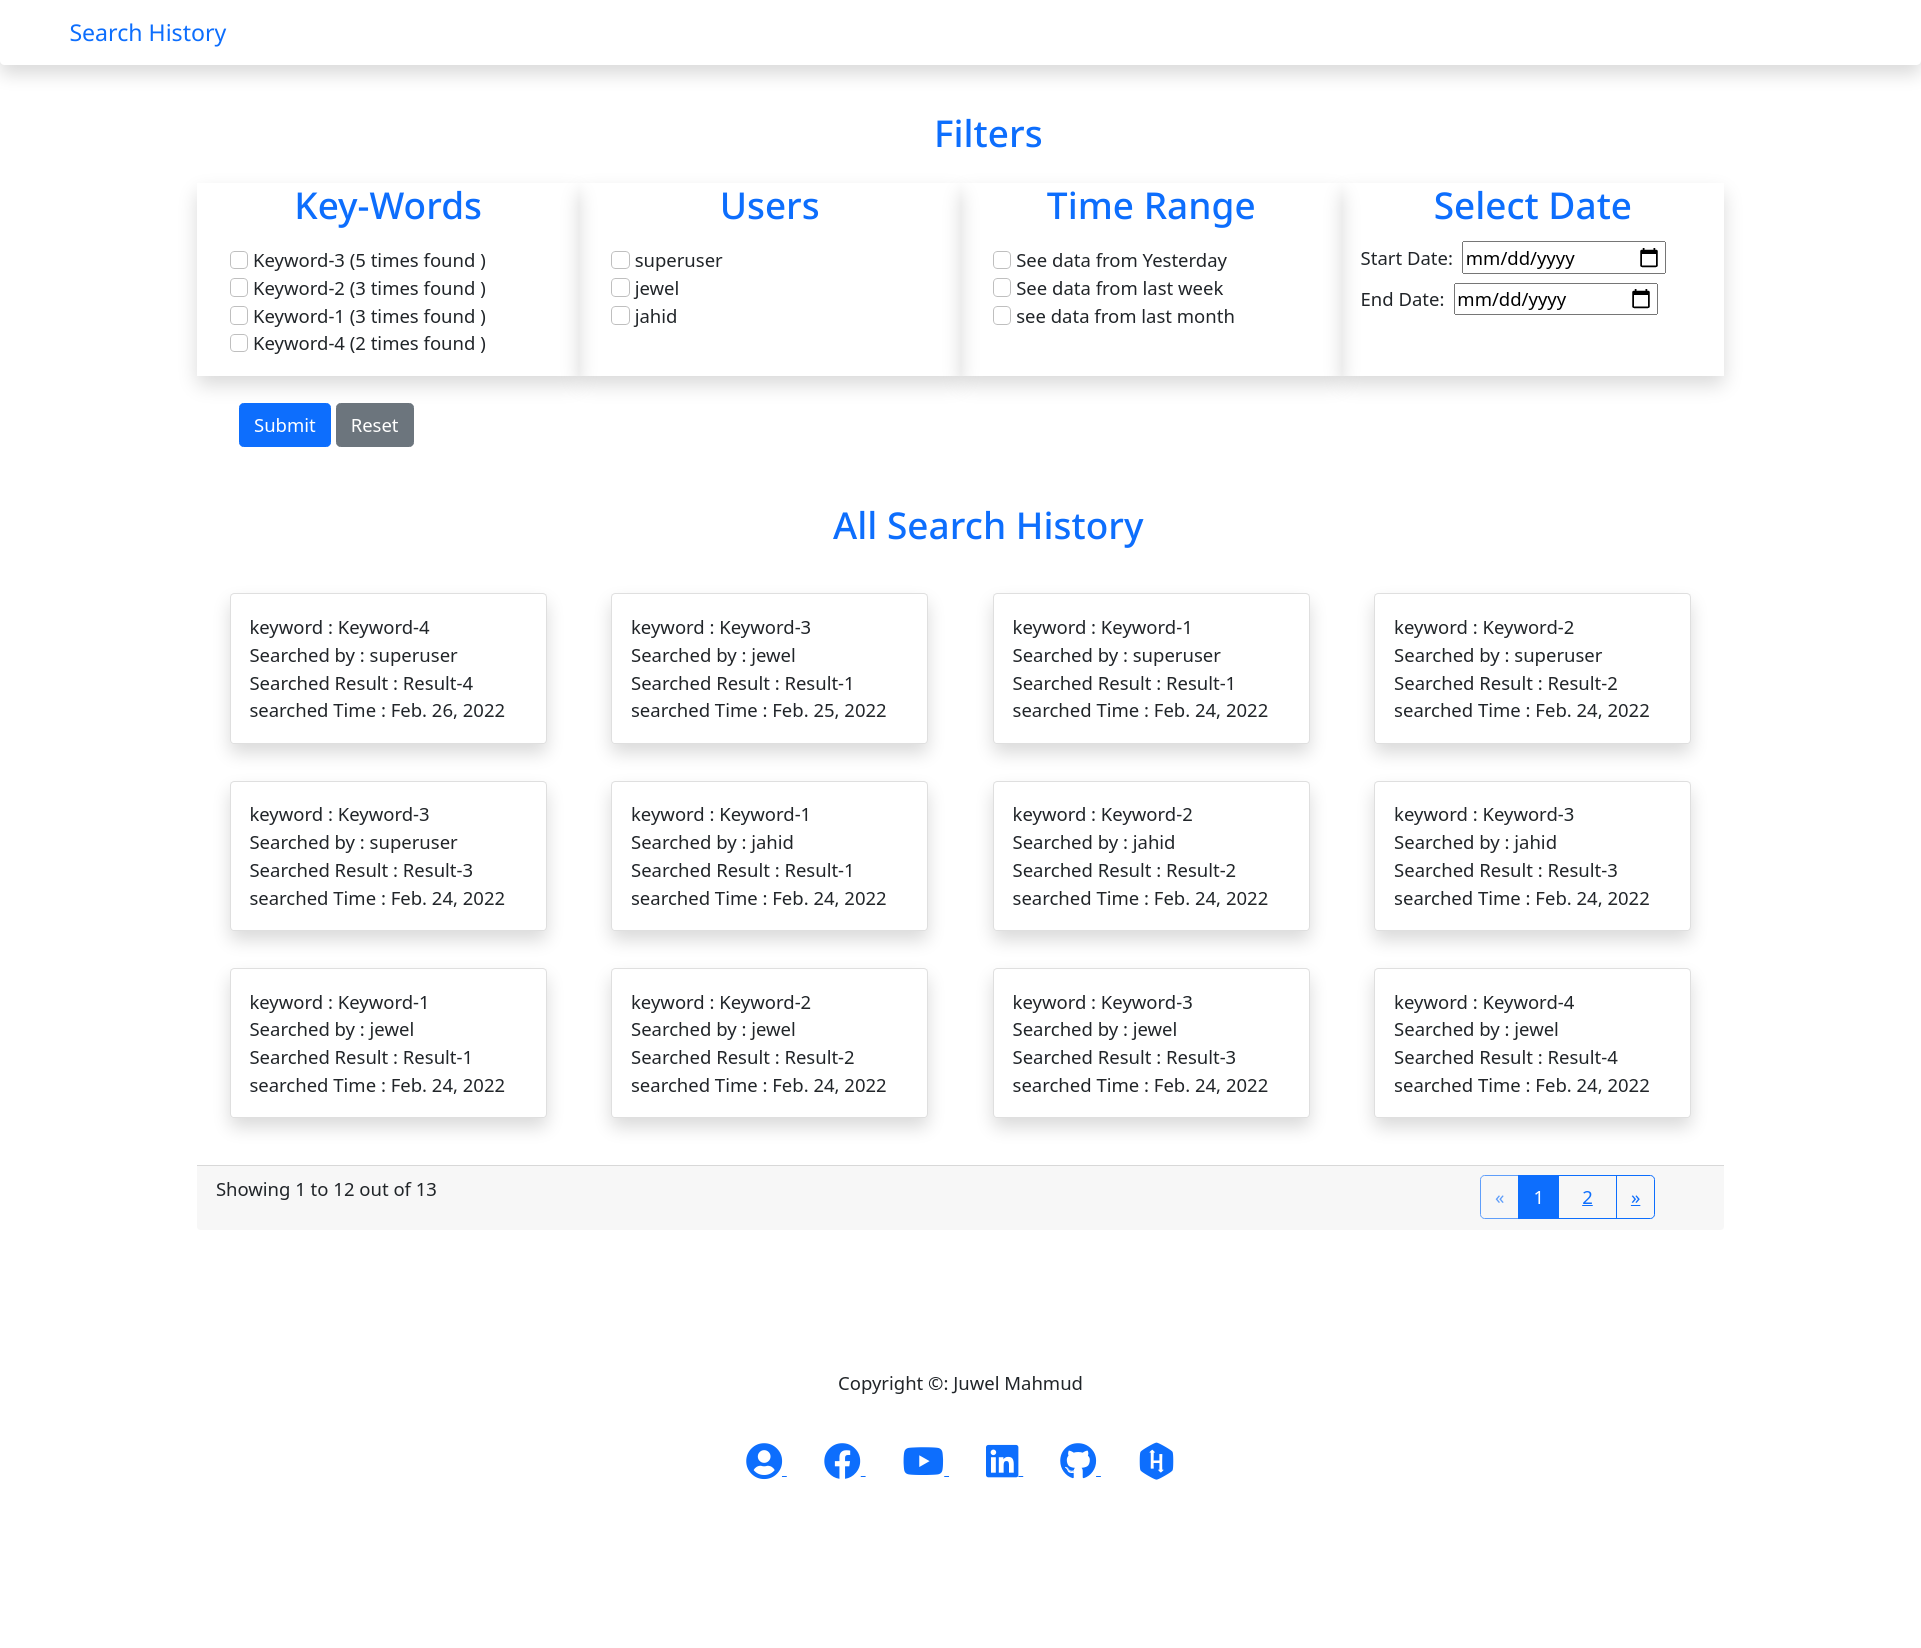
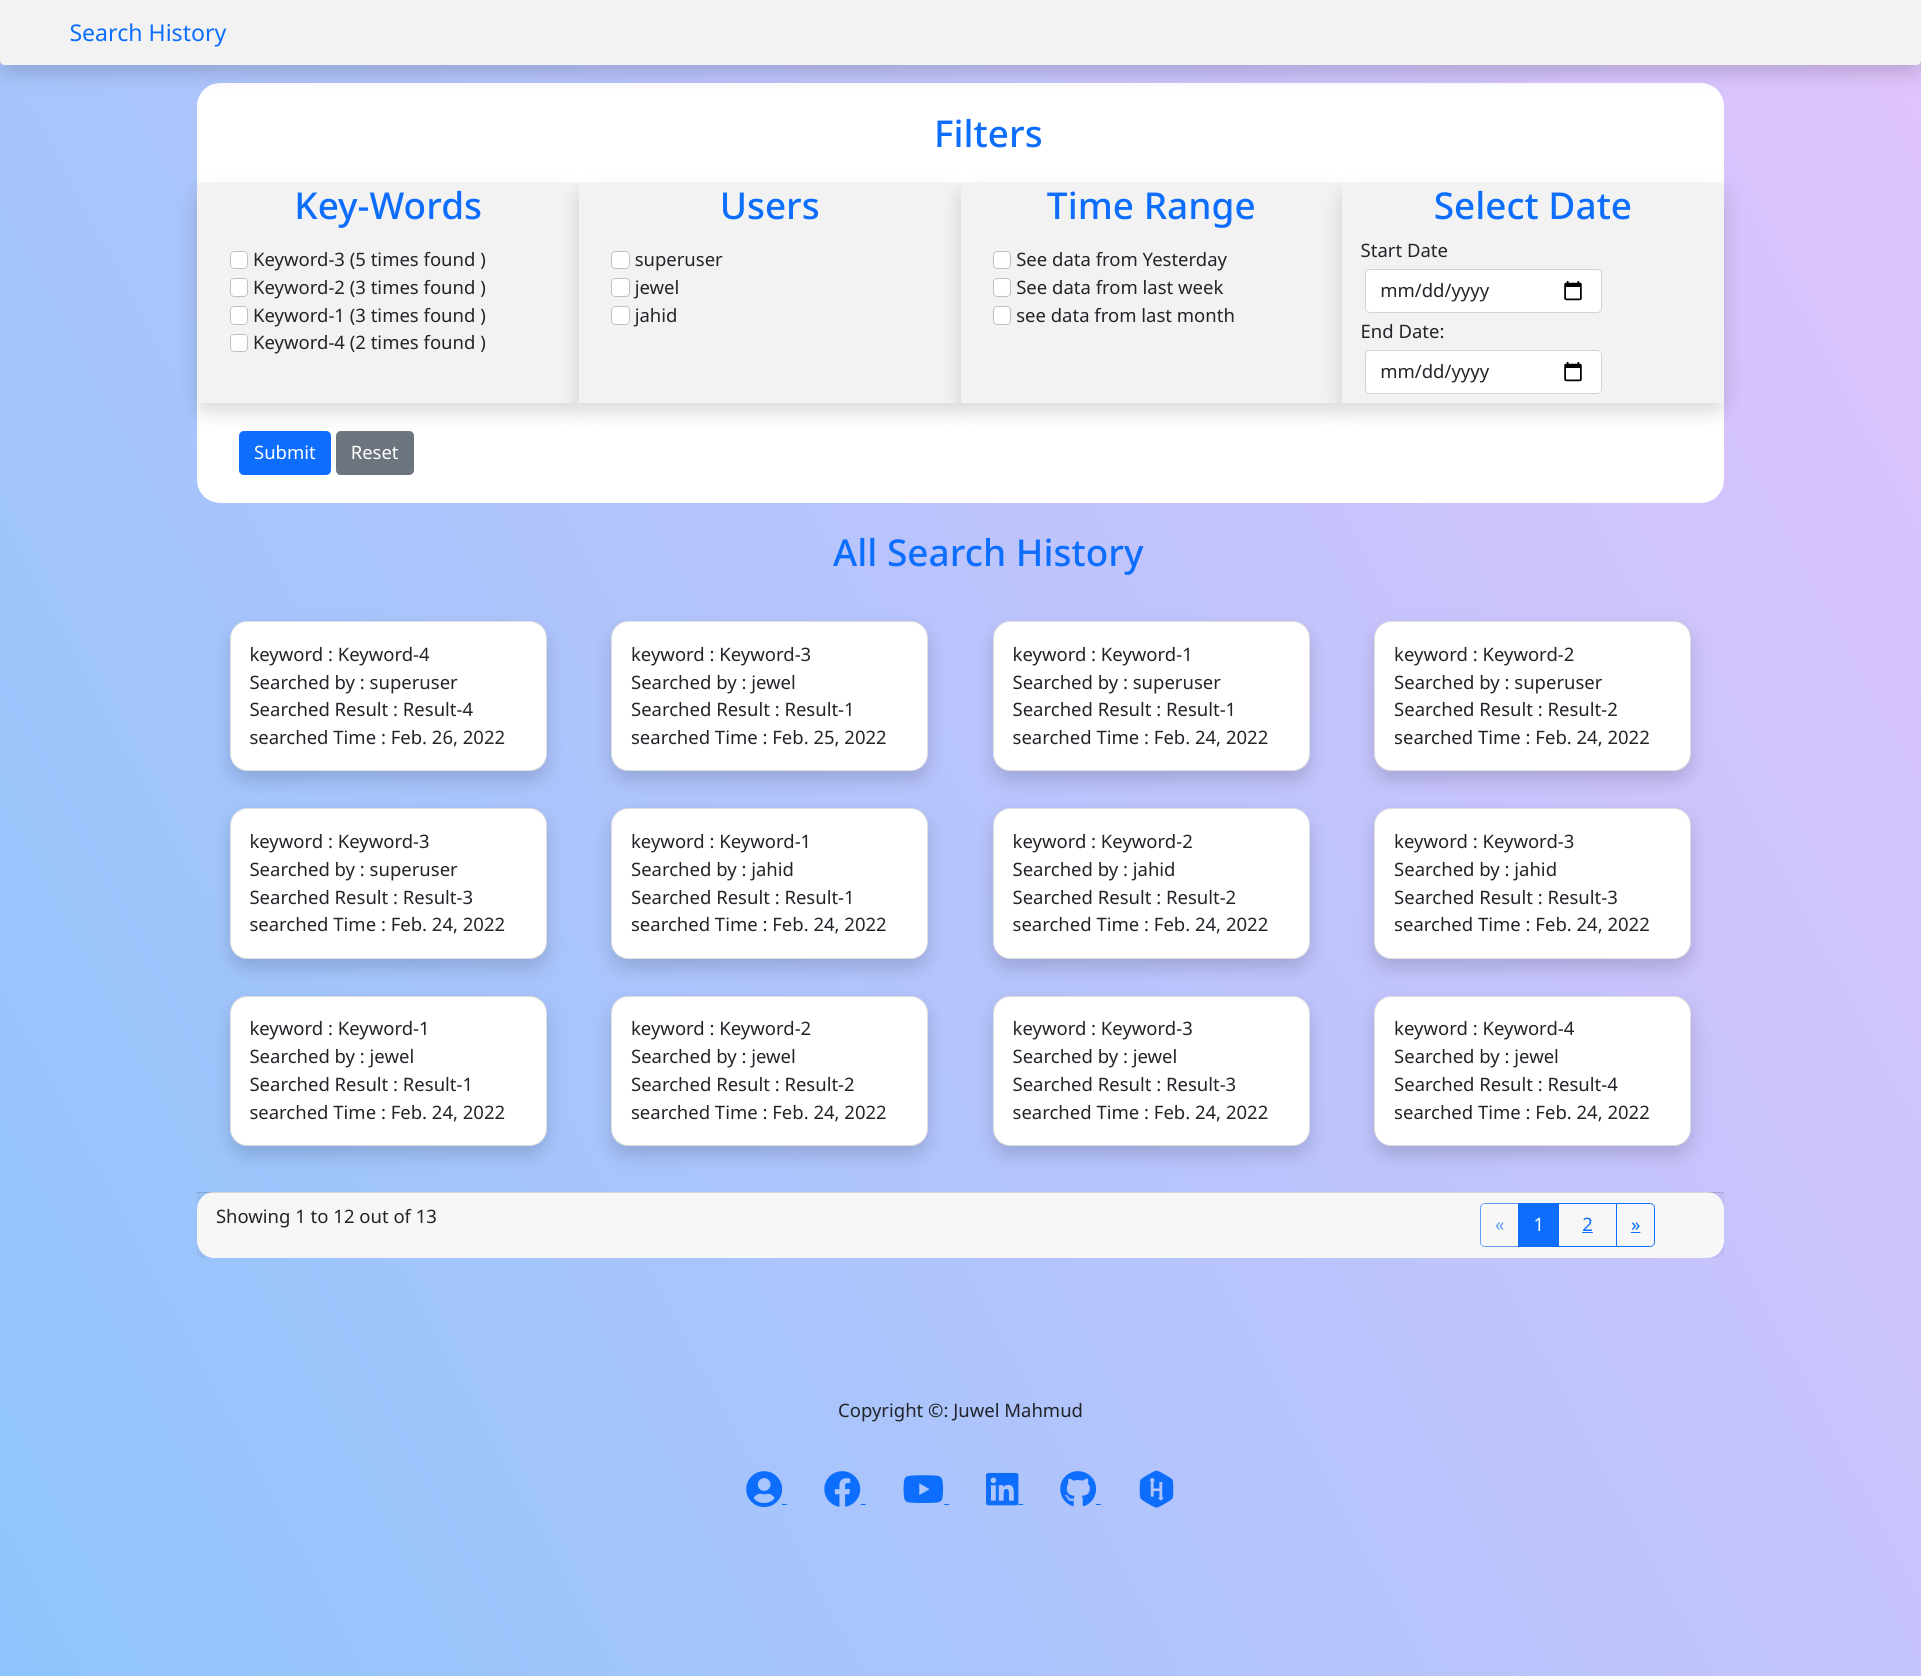
background changed

diff --git a/templates/home.html b/templates/home.html
@@ -1,11 +1,11 @@
 {% extends 'base.html' %} {% load static %} {% block content %}
 <div class="container">
   <!-- distinct keywords, users, time ==> filter  -->
-  <form action="?" method="get">
-    <div class="row">
+  <form action="?" method="get" >
+    <div class="row" style="background: white; border-radius: 20px;">
       <h2 class="text-center text-primary m-4">Filters</h2>
       <!-- dictinct keywords  -->
-      <div class="col-md-3 shadow">
+      <div class="col-md-3 shadow" style="background: #f2f2f2;">
         <h2 class="text-center text-primary">Key-Words</h2>
         <div class="m-3">
           {% for h in keywords %}
@@ -16,9 +16,9 @@
       </div>
 
       <!-- users  -->
-      <div class="col-md-3 shadow">
+      <div class="col-md-3 shadow" style="background: #f2f2f2;">
         <h2 class="text-center text-primary">Users</h2>
-        <div class="m-3">
+        <div class="m-3" >
           {% for h in users %}
             <input class="form-check-input" id="{{h.id}}" type="checkbox" value="{{h.username }}" name="user_checkbox" {% if h.username in users_ck %} checked {% endif %}/>
             <label class="form-check-label" for="{{h.id}}"> {{h.username}} </label>
@@ -27,7 +27,7 @@
         </div>
       </div>
       <!-- fixed date  -->
-      <div class="col-md-3 shadow">
+      <div class="col-md-3 shadow" style="background: #f2f2f2;">
         <h2 class="text-center text-primary">Time Range</h2>
         <div class="m-3">
           <input class="form-check-input" id="one" type="checkbox" value="1" name="time_checkbox" {% if time_range %} {% if '1' in time_range %} checked {% endif %}{% endif %}/>
@@ -44,7 +44,7 @@
         </div>
       </div>
 
-      <div class="col-md-3 shadow">
+      <div class="col-md-3 shadow" style="background: #f2f2f2;">
         <h2 class="text-center text-primary">Select Date</h2>
         <div class="m-1">
           <li class="list-inline-item">
@@ -69,7 +69,7 @@
     <h2 class="text-center text-primary m-4">All Search History</h2>
     {% for data in all_Data %}
     <div class="col-md-3">
-      <div class="card shadow m-3 p-3">
+      <div class="card shadow m-3 p-3" style="border-radius: 15px;">
         keyword : {{data.keyword}} <br />
         Searched by : {{data.user}} <br />
         Searched Result : {{data.result}} <br />

diff --git a/templates/base.html b/templates/base.html
@@ -25,11 +25,13 @@
     <link rel="stylesheet" href="{% static 'css/index.css' %}" />
 
   </head>
-  <body class="bodycolor">
+  <body style="background-color: #8EC5FC;
+            background-image: linear-gradient(62deg, #8EC5FC 0%, #E0C3FC 100%);
+  ">
     <!-- navigations  -->
     <nav
       class="navbar navbar-expand-lg fixed-top shadow rounded-bottom"
-      style="background: white;"
+      style="background: #f2f2f2;"
     >
       <div class="container-fluid">
         <a class="navbar-brand brandcolor ms-5" href="/">Search History</a>
@@ -65,7 +67,7 @@
 
     <!-- Footer -->
     <br /><br /><br />
-    <footer class="footerHeader">
+    <footer class="footerHeader shadow" >
       <br /><br />
       <div class="container">
         <div class="row text-center textColor">

diff --git a/templates/paginations.html b/templates/paginations.html
@@ -1,4 +1,4 @@
-<div class="row mt-4">
+<div class="row mt-4" style="background: white; border-radius: 15px;">
     <!-- paginator  -->
     <div class="card-footer">
       <div class="row justify-content-between">
